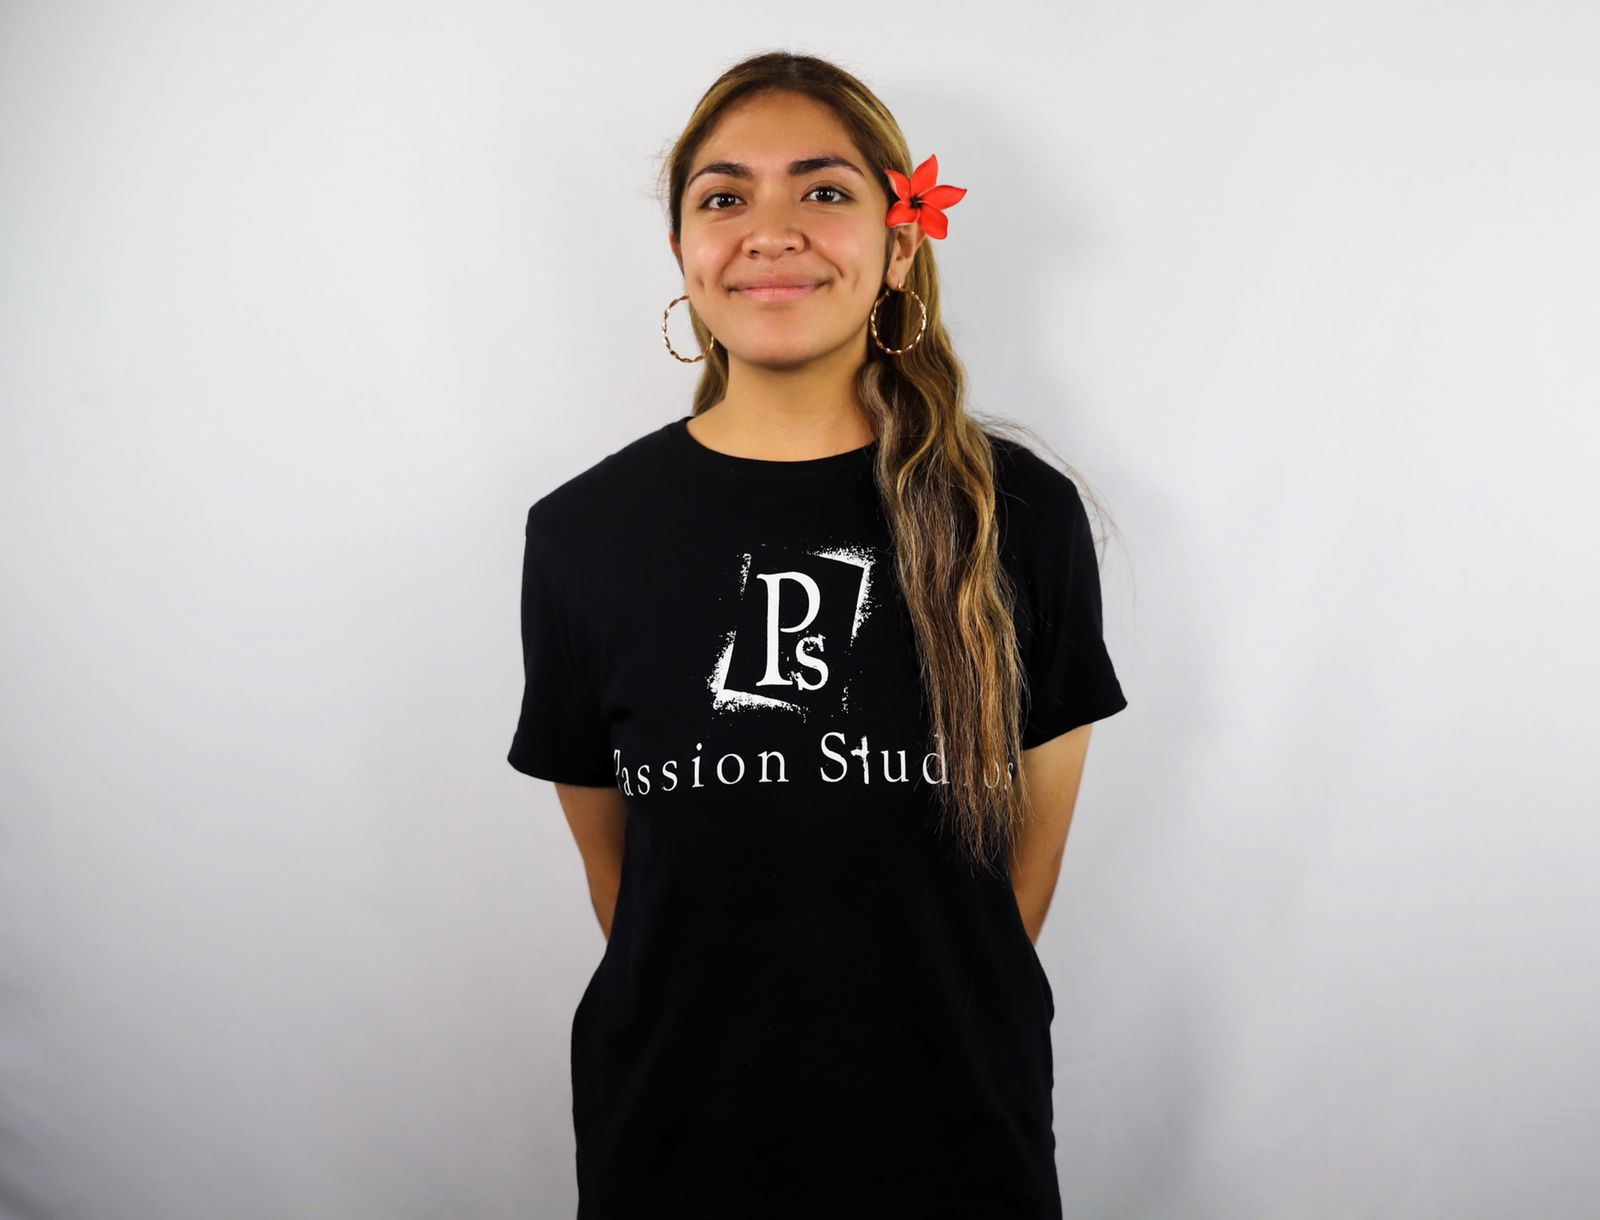
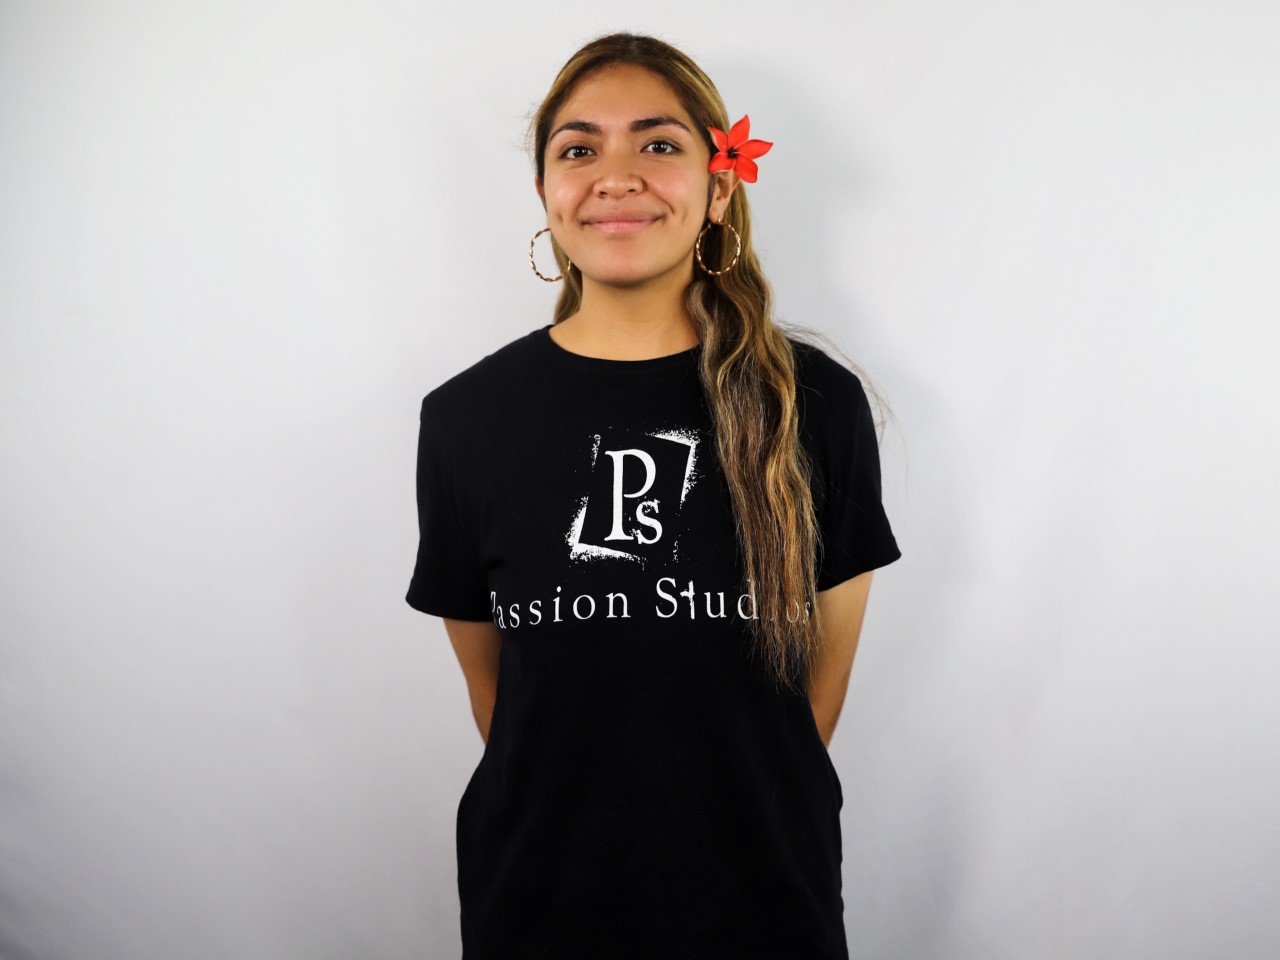
alter team photo dimensions

diff --git a/index.html b/index.html
@@ -568,17 +568,17 @@
             </div>
 
             <div class="one-third column team">
-              <img src="images/t1a.jpg" alt="" />
+              <img src="images/t1.jpg" alt="" />
               <h2>Cruise Westerlund<br /><span>co-founder</span></h2>
             </div>
 
             <div class="one-third column team">
-              <img src="images/t2a.jpg" alt="" />
+              <img src="images/t2.jpg" alt="" />
               <h2>Agamalu Westerlund<br /><span>co-founder</span></h2>
             </div>
 
             <div class="one-third column team">
-              <img src="images/t3a.jpg" alt="" />
+              <img src="images/t3.jpg" alt="" />
               <h2>Vancouver Samuelu<br /><span>Production Assistant & Video Editor</span></h2>
             </div>
           </div>
